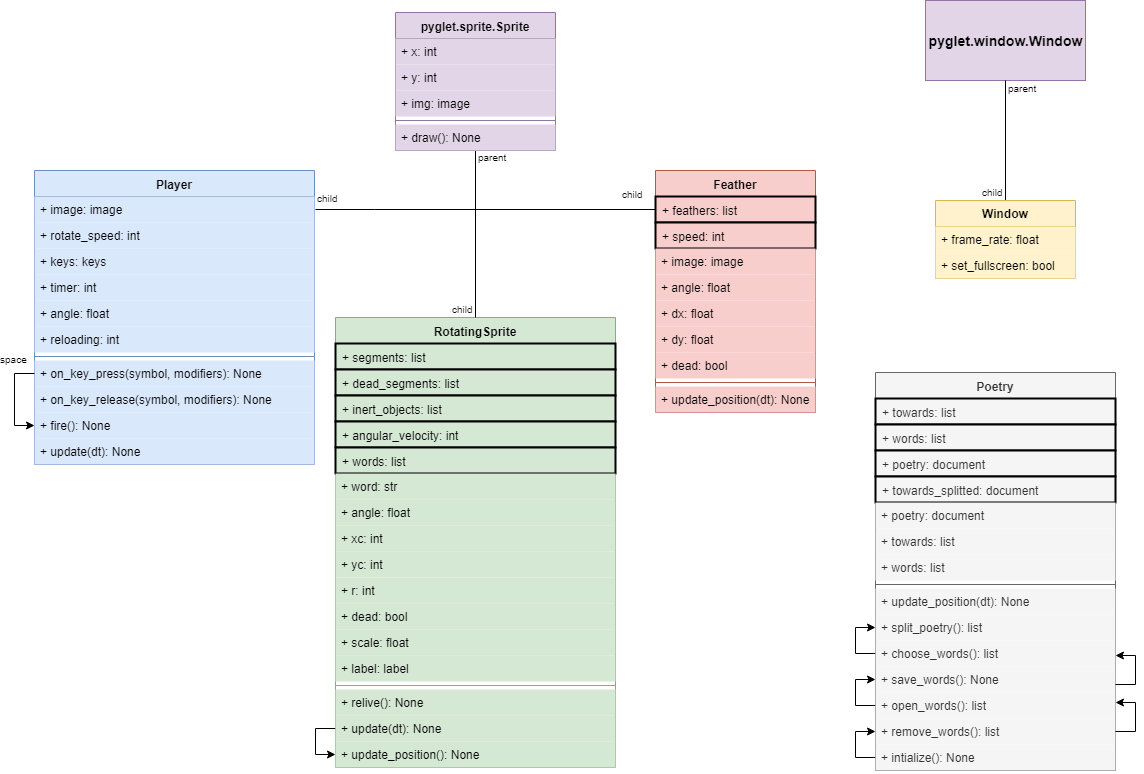
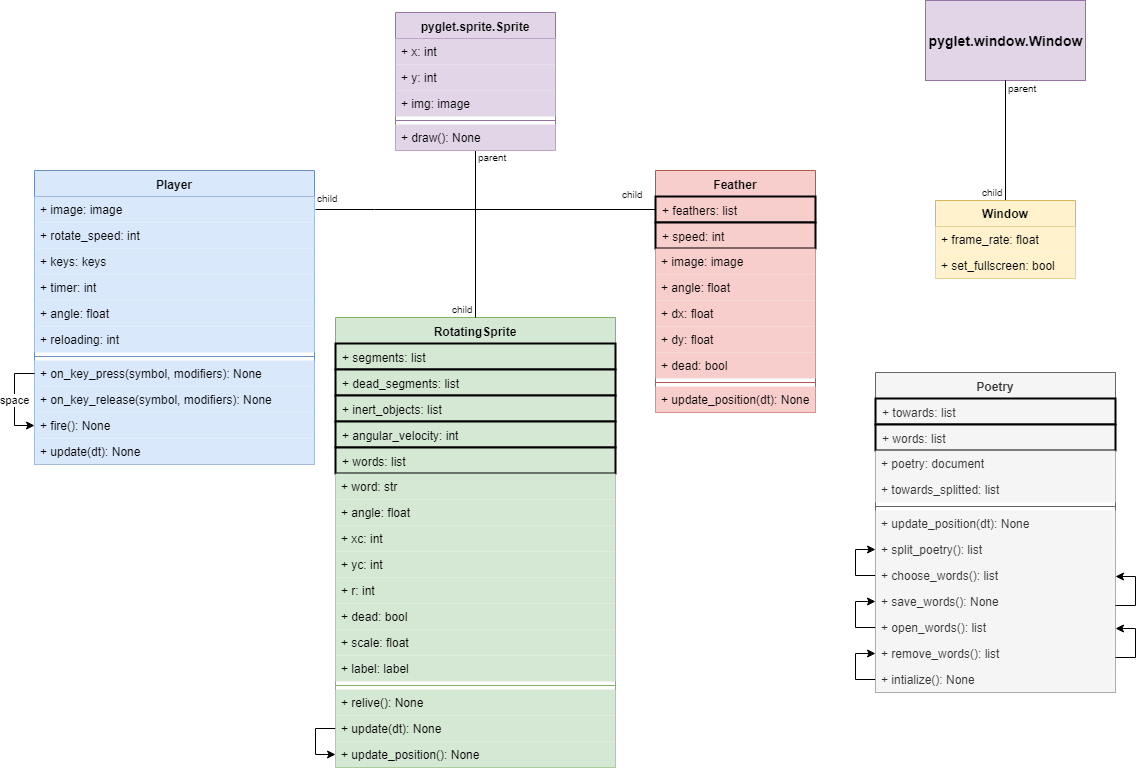
Resolve poetry problem

diff --git a/usr/duc/good project/classes.py b/usr/duc/good project/classes.py
@@ -168,35 +168,33 @@ class Poetry():
     words = []
 
     def __init__(self, poetry):
-        self.towards_splited = poetry.read().split('\n')
-        self.poetry = self.towards_splited
-        self.towards = Poetry.towards
-        self.words = Poetry.words
+        self.poetry = poetry
+        self.towards_splited = self.poetry.read().split('\n')
 
     def split_poetry(self):
         '''
         Split the poetry into a list of towards (vers)
         :return: list
         '''
-        for line in self.poetry:
+        for line in self.towards_splited:
             words_splited = line.split(' ')
-            self.towards.append(words_splited)
-        return self.towards
+            Poetry.towards.append(words_splited)
+        return Poetry.towards
 
     def choose_words(self):
         '''
         Choose randomly a word in each toward of the poetry
         :return: list
         '''
-        self.towards = self.split_poetry()
+        Poetry.towards = self.split_poetry()
         i = 0
-        for __ in self.towards:
+        for __ in Poetry.towards:
             while i < 15:
-                random_choice = random.choice(self.towards[i])
+                random_choice = random.choice(Poetry.towards[i])
                 if len(random_choice) > 2:
                     i += 1
-                    self.words.append(random_choice)
-        return self.words
+                    Poetry.words.append(random_choice)
+        return Poetry.words
 
     def save_words(self):
         '''
@@ -221,7 +219,7 @@ class Poetry():
         '''
         i = 0
         words_to_remove = self.open_words()
-        towards = self.towards
+        towards = Poetry.towards
         for toward in towards:
             loc = towards[i].index(words_to_remove[i])
             towards[i].remove(words_to_remove[i])
